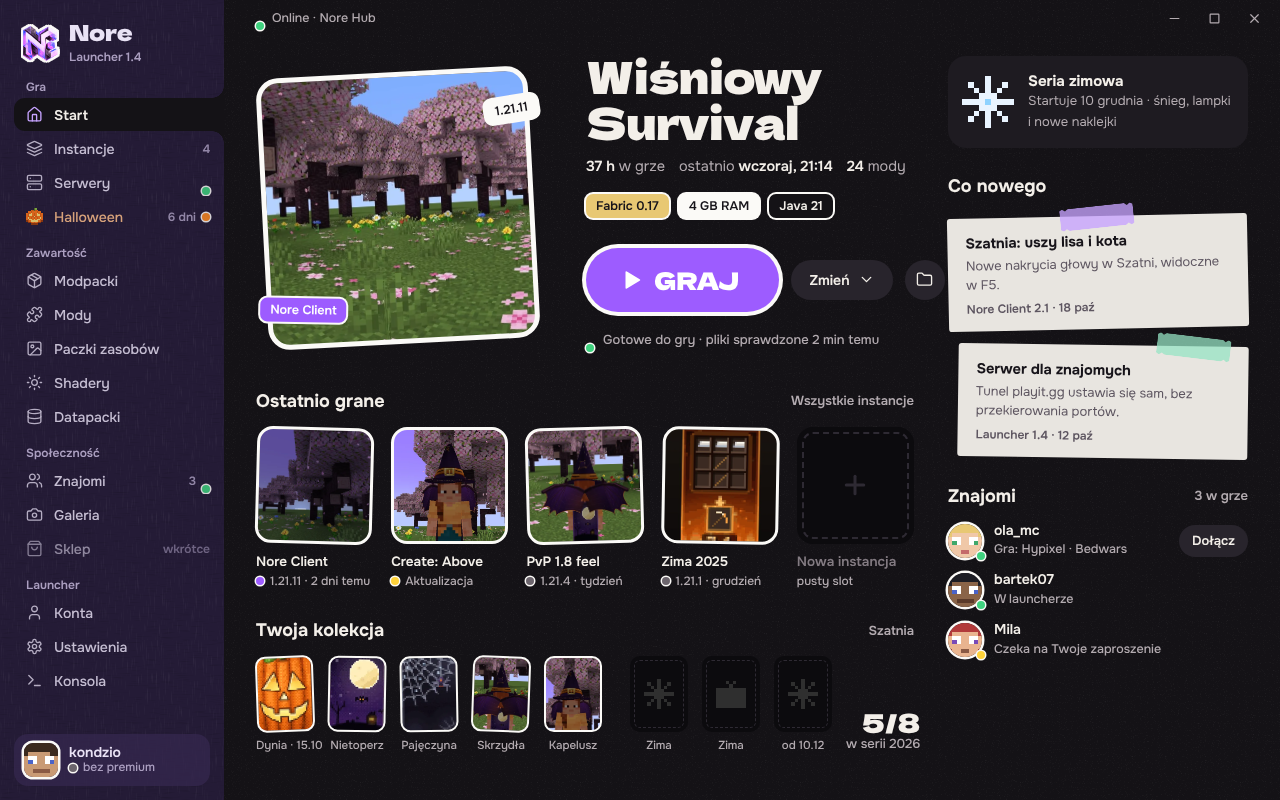
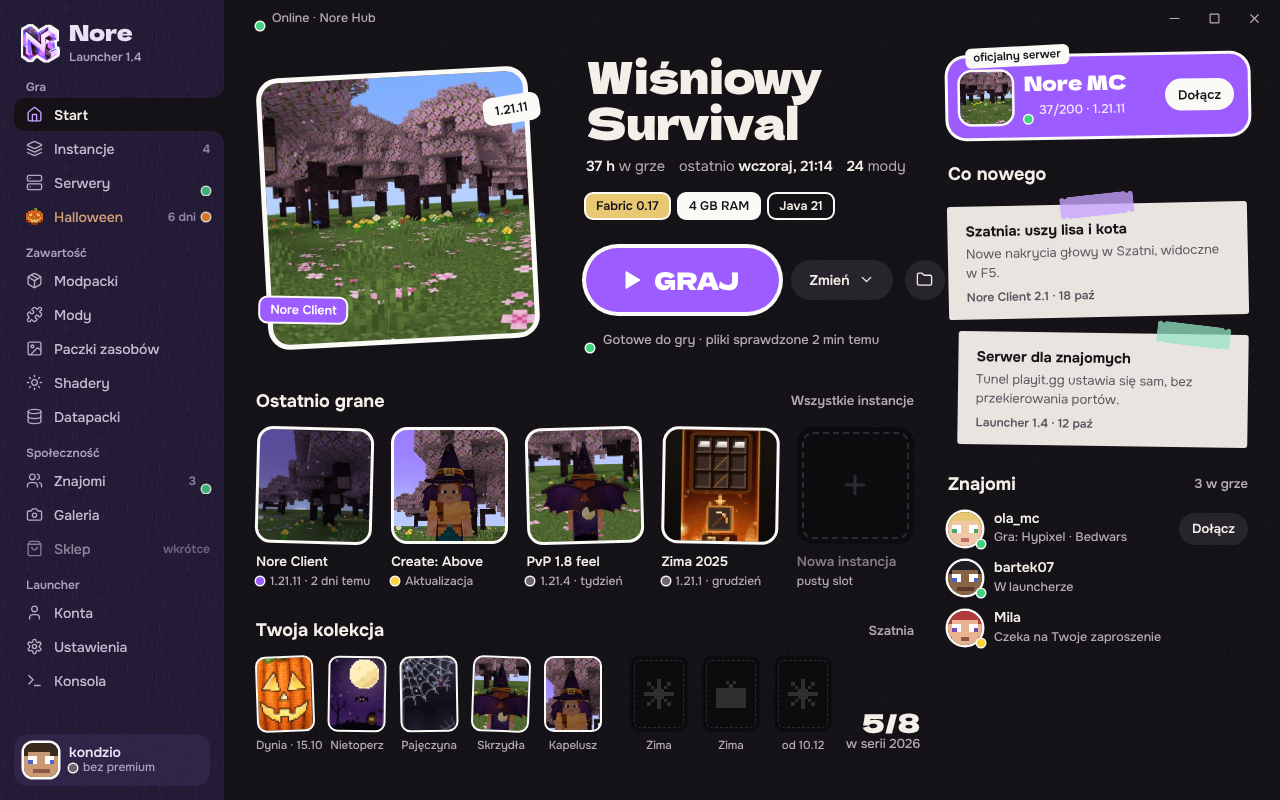
Album mocks: Nore MC server site, pinned official server in game and launcher
Claude-Session: https://claude.ai/code/session_01VTrStubm5PzHAm6YobFPct

Changed region(s): [[0.7188, 0.0312, 1.0, 0.8438], [0.5312, 0.6562, 0.5938, 0.6875], [0.9375, 0.6562, 0.9688, 0.6875]]

diff --git a/design/mocks/web-server.html b/design/mocks/web-server.html
@@ -1,0 +1,121 @@
+<!doctype html>
+<html lang="pl">
+<head>
+<meta charset="utf-8">
+<meta name="viewport" content="width=device-width, initial-scale=1">
+<title>Nore MC – mc.noreclient.pl</title>
+<link rel="stylesheet" href="../tokens.css">
+<link rel="stylesheet" href="web.css">
+<style>
+  /* Nore MC: the partner server's own page in the Album family. Same card, same stickers; its signature object
+     is the address label: the IP printed on a white die-cut sticker that copies itself when clicked. */
+  .nav .mark small { margin-left: 4px; padding: 6px 10px; border-radius: 8px; border: 3px solid var(--nore-vinyl); background: var(--nore-dot-ready); color: #0e1a12; font: 700 13px/1 var(--nore-font-text); rotate: -4deg; }
+  main { overflow-x: clip; }
+  .hero { display: grid; grid-template-columns: minmax(0, 1.1fr) minmax(0, .9fr); gap: clamp(32px, 4vw, 72px); align-items: center; min-height: calc(100svh - 76px); padding: 10px var(--nore-web-margin) 60px; }
+  .hero h1 { margin: 0; font: var(--nore-web-display); font-size: clamp(64px, 9vw, 150px); letter-spacing: var(--nore-web-display-tracking); }
+  .hero p.lead { margin: 18px 0 0; max-width: 34ch; font: var(--nore-web-lead); color: var(--nore-ink-soft); }
+  .ip { display: inline-flex; align-items: center; gap: 18px; margin-top: 34px; padding: 18px 26px 18px 30px; border-radius: 22px; border: 6px solid var(--nore-vinyl); background: var(--nore-vinyl); color: var(--nore-vinyl-ink); font: 400 clamp(28px, 3vw, 46px)/1 var(--nore-font-display); letter-spacing: -.02em; rotate: -1.5deg; text-decoration: none; transition: translate var(--nore-dur-quick) var(--nore-ease-out); }
+  .ip:hover { translate: 0 -3px; }
+  .ip small { font: 700 15px/1 var(--nore-font-text); color: var(--nore-vinyl-ink-soft); letter-spacing: 0; }
+  .live { display: flex; flex-wrap: wrap; gap: 10px 22px; margin-top: 28px; font: 500 17px/1.2 var(--nore-font-text); color: var(--nore-ink-soft); font-variant-numeric: tabular-nums; }
+  .live b { color: var(--nore-ink); font-weight: 600; }
+  .live .on { display: inline-flex; align-items: center; gap: 10px; color: var(--nore-ink); }
+  .dot { display: inline-block; width: 14px; height: 14px; border-radius: 50%; border: 3px solid var(--nore-vinyl); background: var(--c, var(--nore-dot-ready)); }
+  .acts { display: flex; flex-wrap: wrap; gap: 14px; margin-top: 30px; }
+  .world { position: relative; aspect-ratio: 4 / 5; }
+  .world .st { position: absolute; inset: 0; --tilt: 2.5deg; background-image: url(../../web/public/assets/home/panorama.webp); background-position: 42% 50%; }
+  .world .heads { position: absolute; left: -9%; bottom: 8%; display: flex; }
+  .world .heads img { width: clamp(52px, 5vw, 76px); border-radius: 16px; border: 5px solid var(--nore-vinyl); image-rendering: pixelated; margin-left: -14px; rotate: var(--r); }
+  .world .rank { position: absolute; right: -6%; top: 8%; rotate: 7deg; padding: 12px 18px; border-radius: 14px; border: 5px solid var(--nore-vinyl); background: var(--nore-accent); color: #fff; font: 400 26px/1 var(--nore-font-display); }
+
+  /* join: three ways, ordered by how close you are to Nore; no numbers, the stickers lead */
+  .join { background: var(--nore-page-raised); padding: clamp(80px, 9vw, 150px) var(--nore-web-margin); }
+  .join h2, .ranks h2 { margin: 0 0 clamp(36px, 4vw, 60px); font: var(--nore-web-heading); letter-spacing: var(--nore-web-heading-tracking); max-width: 18ch; }
+  .ways { display: grid; grid-template-columns: 1.3fr 1fr 1fr; gap: 8px; }
+  .way { padding: 30px; border-radius: 6px; min-height: 340px; display: flex; flex-direction: column; justify-content: space-between; }
+  .way h3 { margin: 0 0 10px; font: 600 24px/1.2 var(--nore-font-text); }
+  .way p { margin: 0; font: var(--nore-web-body); }
+  .way.a { background: var(--nore-accent); color: var(--nore-page); }
+  .way.b { background: var(--nore-page); }
+  .way.c { background: var(--nore-paper); color: var(--nore-vinyl-ink); }
+  .way .path { display: flex; flex-wrap: wrap; align-items: center; gap: 10px; font: 700 17px/1 var(--nore-font-text); }
+  .way .path span { padding: 10px 14px; border-radius: 12px; border: 3px solid var(--nore-vinyl); background: var(--nore-page); color: var(--nore-ink); }
+  .way .path span.go { background: var(--nore-vinyl); color: var(--nore-vinyl-ink); }
+  .way.b .path span { background: var(--nore-page-raised-2); }
+  .way .slot { display: flex; align-items: center; gap: 14px; padding: 14px; border-radius: 14px; background: var(--nore-page-raised); }
+  .way .slot .ico { width: 54px; height: 54px; border-radius: 10px; border: 3px solid var(--nore-vinyl); background: url(../../web/public/assets/home/panorama.webp) 40% 50% / 400%; flex: none; }
+  .way .slot b { display: block; font: 600 17px/1.2 var(--nore-font-text); }
+  .way .slot small { display: block; margin-top: 4px; color: var(--nore-ink-soft); font-size: 14px; }
+  .way .slot .pin { margin-left: auto; padding: 7px 10px; border-radius: 8px; background: var(--nore-accent); color: #fff; font: 700 13px/1 var(--nore-font-text); }
+  .way code { font: 600 22px/1.3 var(--nore-font-code); }
+
+  /* ranks: a sticker sheet, each rank its own die-cut shape and colour */
+  .ranks { padding: clamp(96px, 11vw, 180px) var(--nore-web-margin) clamp(80px, 9vw, 140px); }
+  .sheet { display: grid; grid-template-columns: repeat(3, minmax(0, 1fr)); gap: clamp(20px, 3vw, 48px); align-items: start; }
+  .rk { border: 6px solid var(--nore-vinyl); border-radius: 28px; padding: 28px 28px 30px; rotate: var(--t); }
+  .rk h3 { margin: 0; font: 400 clamp(34px, 3.4vw, 54px)/1 var(--nore-font-display); letter-spacing: -.02em; }
+  .rk .price { margin: 12px 0 20px; font: 600 20px/1.2 var(--nore-font-text); font-variant-numeric: tabular-nums; }
+  .rk ul { margin: 0 0 24px; padding: 0; list-style: none; display: grid; gap: 10px; font: var(--nore-web-body); }
+  .rk li { display: flex; gap: 12px; align-items: baseline; }
+  .rk li::before { content: ''; flex: none; width: 12px; height: 12px; border-radius: 50%; background: currentColor; translate: 0 1px; opacity: .55; }
+  .rk.g { --t: -1.5deg; background: var(--nore-page-raised); }
+  .rk.v { --t: 1deg; background: var(--nore-accent); color: #fff; margin-top: 30px; }
+  .rk.s { --t: -.5deg; background: var(--nore-dot-wait); color: #221a00; border-radius: 28px 28px 80px 28px; }
+  .rk .pill.ink { width: 100%; }
+  .fair { margin-top: 40px; max-width: 60ch; font: var(--nore-web-lead); color: var(--nore-ink-soft); }
+  @media (max-width: 760px) {
+    .nav .links { display: none; } .nav .pill { margin-left: auto; }
+    .hero { grid-template-columns: 1fr; min-height: 0; padding-top: 20px; }
+    .hero h1 { font-size: 64px; }
+    .world { order: -1; width: 82%; margin: 10px auto 0; aspect-ratio: 5 / 4; }
+    .ip { width: 100%; justify-content: space-between; font-size: 26px; padding: 16px 18px; }
+    .acts .pill { width: 100%; }
+    .ways, .sheet { grid-template-columns: 1fr; }
+    .way { min-height: 0; gap: 26px; }
+    .rk.v { margin-top: 0; }
+  }
+</style>
+</head>
+<body>
+<header class="nav">
+  <a class="mark" href="#"><img src="assets/logo-sticker-256.png" alt="">Nore MC<small>serwer</small></a>
+  <nav class="links" aria-label="Serwer"><a href="#">Jak dołączyć</a><a href="#">Rangi</a><a href="#">Zasady</a><a href="#">Głosuj</a><a href="#">Ekipa</a><a href="#">Aktualności</a></nav>
+  <a class="pill sm" href="#"><svg viewBox="0 0 24 24"><path d="M7.9 20A9 9 0 1 0 4 16.1L2 22Z"/></svg>Discord</a>
+</header>
+<main>
+  <section class="hero" aria-labelledby="h">
+    <div>
+      <h1 id="h" class="in">Nore MC</h1>
+      <p class="lead in d1">Survival z przyjaciółmi na oficjalnym serwerze Nore. Wejdziesz z kontem premium albo z samym nickiem.</p>
+      <a class="ip in d2" href="#" aria-label="Kopiuj adres serwera">mc.noreclient.pl<small>Kopiuj</small></a>
+      <div class="live in d3"><span class="on"><i class="dot"></i>Online</span><span><b>37</b> / 200 graczy</span><span>wersja <b>1.21.11</b></span><span>ping z Polski <b>18 ms</b></span></div>
+      <div class="acts in d4"><a class="pill" href="#"><svg viewBox="0 0 24 24"><path d="M6 3.5v17a1 1 0 0 0 1.5.86l14-8.5a1 1 0 0 0 0-1.72l-14-8.5A1 1 0 0 0 6 3.5z" fill="currentColor" stroke="none"/></svg>Graj przez Nore Launcher</a><a class="pill ink" href="#">Zasady serwera</a></div>
+    </div>
+    <div class="world stick-in">
+      <div class="st" role="img" aria-label="Spawn serwera: wiśniowy staw"></div>
+      <span class="rank">VIP</span>
+      <div class="heads"><img src="assets/head-ola.png" style="--r:-6deg" alt=""><img src="assets/head-bartek.png" style="--r:4deg" alt=""><img src="assets/head-mila.png" style="--r:-3deg" alt=""><img src="assets/head-kondzio.png" style="--r:7deg" alt=""></div>
+    </div>
+  </section>
+
+  <section class="join" aria-labelledby="j">
+    <h2 id="j" class="in">Trzy drogi na serwer</h2>
+    <div class="ways">
+      <article class="way a in"><div><h3>Z Nore Launcher</h3><p>Nore MC jest na stronie Serwery. Jeden klik instaluje właściwą wersję i od razu łączy.</p></div><div class="path"><span>Serwery</span>→<span>Nore MC</span>→<span class="go">Graj</span></div></article>
+      <article class="way b in d1"><div><h3>Z Nore Client</h3><p>Serwer jest przypięty na górze listy Multiplayer w każdej wersji klienta.</p></div><div class="slot"><span class="ico"></span><div><b>Nore MC</b><small><i class="dot" style="width:10px;height:10px;border-width:2px"></i> 37/200 · survival</small></div><span class="pin">Oficjalny</span></div></article>
+      <article class="way c in d2"><div><h3>Z innego launchera</h3><p>Dodaj serwer w Minecraft: Java Edition 1.21.11 i wpisz adres.</p></div><code>mc.noreclient.pl</code></article>
+    </div>
+  </section>
+
+  <section class="ranks" aria-labelledby="r">
+    <h2 id="r" class="in">Rangi</h2>
+    <div class="sheet">
+      <article class="rk g in"><h3>Gracz</h3><p class="price">Za darmo</p><ul><li>Survival, działki i sklep graczy</li><li>2 domy i /tpa do znajomych</li><li>Peleryny z Nore widoczne w F5</li></ul><a class="pill white" href="#">Wejdź na serwer</a></article>
+      <article class="rk v in d1"><h3>VIP</h3><p class="price">19 zł / 30 dni</p><ul><li>5 domów i kolorowy nick</li><li>Kit co tydzień</li><li>Dostęp do /craft i /ec</li></ul><a class="pill ink" href="#">Kup VIP</a></article>
+      <article class="rk s in d2"><h3>SVIP</h3><p class="price">39 zł / 30 dni</p><ul><li>Wszystko z VIP</li><li>10 domów i /back</li><li>Własny tag na czacie</li></ul><a class="pill ink" href="#">Kup SVIP</a></article>
+    </div>
+    <p class="fair in">Rangi nie dają przewagi w walce. Każdy zakup wspiera utrzymanie serwera.</p>
+  </section>
+</main>
+</body>
+</html>

diff --git a/design/mocks/game-multiplayer.html b/design/mocks/game-multiplayer.html
@@ -1,0 +1,60 @@
+<!doctype html>
+<html lang="pl">
+<head>
+<meta charset="utf-8">
+<title>Nore Client – Multiplayer</title>
+<link rel="stylesheet" href="../tokens.css">
+<link rel="stylesheet" href="game.css">
+<style>
+  .world { background-image: url(../../common/src/main/resources/assets/noreclient/panorama/cherry_sunset.jpg); background-position: -300px 0; }
+  .shade { background: rgba(8, 7, 10, .5); }
+  .sheet { position: absolute; left: 66px; top: 14px; width: 401px; height: 272px; border-radius: 6px; background: #141216f2; padding: 10px 12px; }
+  .head { display: flex; align-items: center; gap: 8px; margin-bottom: 9px; }
+  .head .search { margin-left: auto; display: flex; align-items: center; gap: 5px; width: 110px; height: 16px; padding: 0 5px; border-radius: 4px; background: #0c0b0e; color: var(--nore-ink-faint); }
+  /* the official server: a violet sticker pinned above the player's own list, with a pushpin label */
+  .pinned { position: relative; display: grid; grid-template-columns: 32px 1fr auto; gap: 8px; align-items: center; height: 44px; padding: 6px 8px 6px 6px; border-radius: 4px; background: var(--nore-accent); color: #fff; box-shadow: 0 0 0 1px var(--nore-vinyl); }
+  .pinned .ico { width: 32px; height: 32px; border-radius: 3px; background: url(../../web/public/assets/home/panorama.webp) 40% 50% / 300%; box-shadow: 0 0 0 1px var(--nore-vinyl); }
+  .pinned .motd { display: block; margin-top: 3px; color: #e9dcff; }
+  .pinned .tag { position: absolute; left: 34px; top: -5px; height: 9px; padding: 0 3px; border-radius: 2px; background: var(--nore-vinyl); color: var(--nore-vinyl-ink); font-size: 9px; line-height: 9px; }
+  .pinned .r { text-align: right; }
+  .pinned .r .gbtn { margin-top: 3px; }
+  .gbtn { display: inline-flex; align-items: center; height: 14px; padding: 0 7px; border-radius: 7px; background: var(--nore-vinyl); color: var(--nore-vinyl-ink); }
+  .sig { display: inline-flex; gap: 1px; align-items: flex-end; height: 7px; margin-left: 4px; vertical-align: -1px; }
+  .sig i { width: 2px; background: var(--c, var(--nore-dot-ready)); }
+  .label { margin: 8px 0 4px; color: var(--nore-ink-faint); }
+  .rows { display: grid; gap: 3px; }
+  .row { display: grid; grid-template-columns: 24px 1fr auto; gap: 8px; align-items: center; height: 31px; padding: 4px 6px 4px 4px; border-radius: 4px; }
+  .row.hover { background: #1e1b21; }
+  .row .ico { width: 24px; height: 24px; border-radius: 3px; box-shadow: 0 0 0 1px var(--nore-vinyl); background: center / cover; }
+  .row small { display: block; margin-top: 2px; color: var(--nore-ink-soft); }
+  .row .r { text-align: right; color: var(--nore-ink-soft); }
+  .row.off .ico { box-shadow: none; outline: 1px dashed var(--nore-ghost); outline-offset: -1px; background: #0c0b0e; }
+  .row.off { color: var(--nore-ink-faint); }
+  .foot { position: absolute; left: 12px; right: 12px; bottom: 10px; display: flex; gap: 6px; }
+  .fb { display: inline-flex; align-items: center; gap: 4px; height: 16px; padding: 0 8px; border-radius: 8px; background: #28242c; }
+  .fb.primary { background: var(--nore-accent); color: #fff; box-shadow: 0 0 0 1px var(--nore-vinyl); }
+  .fb.right { margin-left: auto; }
+</style>
+</head>
+<body>
+<script src="icons.js"></script>
+<div class="world"></div><div class="shade"></div>
+<section class="sheet">
+  <div class="head"><span class="x2">Multiplayer</span><div class="search"><svg class="gic"><use href="#i-search"/></svg>Szukaj serwera</div></div>
+  <div class="pinned">
+    <span class="tag">oficjalny</span>
+    <span class="ico"></span>
+    <div>Nore MC <span class="sig"><i style="height:3px"></i><i style="height:4px"></i><i style="height:5px"></i><i style="height:6px"></i><i style="height:7px"></i></span><span class="motd">Survival 1.21.11 · premium albo sam nick</span></div>
+    <div class="r">37/200<br><span class="gbtn">Dołącz</span></div>
+  </div>
+  <div class="label">Twoje serwery</div>
+  <div class="rows">
+    <div class="row hover"><span class="ico" style="background-image:url(../../web/public/assets/home/sky.webp)"></span><div>Serwer kondzia<small><i class="gdot" style="--c:var(--nore-dot-ready)"></i> 2/10 · tunel playit.gg</small></div><span class="r">24 ms</span></div>
+    <div class="row"><span class="ico" style="background-image:url(../../web/public/assets/home/ward-history.webp)"></span><div>mc.przyklad.pl<small><i class="gdot" style="--c:var(--nore-dot-ready)"></i> 112/500 · Bedwars, SkyBlock</small></div><span class="r">41 ms</span></div>
+    <div class="row off"><span class="ico"></span><div>Stary SMP<small><i class="gdot" style="--c:var(--nore-dot-error)"></i> nie odpowiada od 3 dni</small></div><span class="r">–</span></div>
+    <div class="row"><span class="ico" style="background-image:url(../../web/public/assets/home/ward-hat.webp)"></span><div>LAN · Świat oli<small><i class="gdot" style="--c:var(--nore-dot-info)"></i> w Twojej sieci</small></div><span class="r">2 ms</span></div>
+  </div>
+  <div class="foot"><span class="fb primary"><svg class="gic"><use href="#i-play"/></svg>Dołącz</span><span class="fb"><svg class="gic"><use href="#i-plus"/></svg>Dodaj</span><span class="fb">Bezpośrednio</span><span class="fb right"><svg class="gic"><use href="#i-refresh"/></svg>Odśwież</span></div>
+</section>
+</body>
+</html>

diff --git a/design/mocks/launcher-home.html b/design/mocks/launcher-home.html
@@ -52,6 +52,12 @@
   .next-ev img { width: 52px; image-rendering: pixelated; }
   .next-ev b { display: block; font: 700 15px/1.2 var(--nore-font-text); }
   .next-ev small { color: var(--nore-ink-soft); font-size: 13px; }
+  .feat { position: relative; display: flex; gap: 12px; align-items: center; padding: 14px 14px 14px 12px; border-radius: 18px; background: var(--nore-accent); color: #fff; box-shadow: 0 0 0 3px var(--nore-vinyl); rotate: -1deg; }
+  .feat .fi { width: 52px; height: 52px; flex: none; border-radius: 12px; box-shadow: 0 0 0 2.5px var(--nore-vinyl); background: url(../../web/public/assets/home/panorama.webp) 40% 50% / 300%; }
+  .feat b { display: block; font: 400 20px/1.1 var(--nore-font-display); }
+  .feat small { display: flex; align-items: center; gap: 7px; margin-top: 5px; font: 500 12.5px/1.2 var(--nore-font-text); color: #efe6ff; }
+  .feat .btn { margin-left: auto; }
+  .feat .pin { position: absolute; left: 18px; top: -11px; padding: 4px 8px; border-radius: 6px; background: var(--nore-vinyl); color: var(--nore-vinyl-ink); font: 600 11.5px/1 var(--nore-font-text); rotate: -2deg; }
   .clips { position: relative; display: grid; gap: 16px; padding-top: 4px; }
   .clip h4 { margin: 0 0 5px; font: 700 14.5px/1.25 var(--nore-font-text); }
   .clip p { font-size: 13px; line-height: 1.45; }
@@ -118,7 +124,7 @@
           </div>
         </div>
         <aside class="side">
-          <div class="next-ev"><img src="assets/flake.png" alt=""><div><b>Seria zimowa</b><small>Startuje 10 grudnia · śnieg, lampki i nowe naklejki</small></div></div>
+          <div class="feat"><span class="pin">oficjalny serwer</span><span class="fi"></span><div><b>Nore MC</b><small><i class="dot sm ready"></i>37/200 · 1.21.11</small></div><button class="btn sm white">Dołącz</button></div>
           <div>
             <h3 class="section-title">Co nowego</h3>
             <div class="clips">
